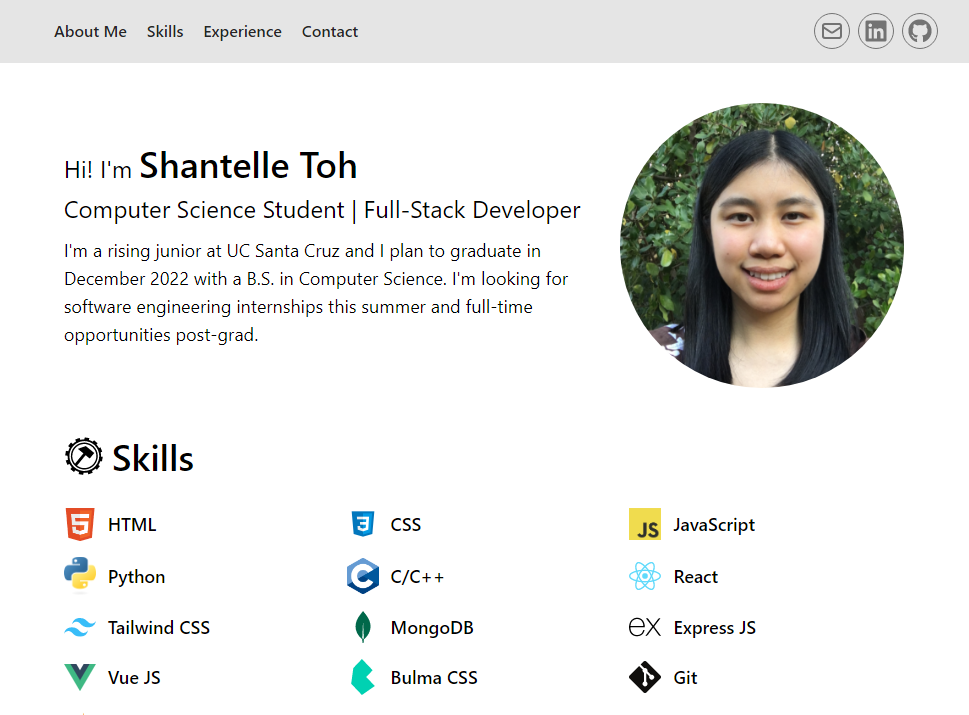
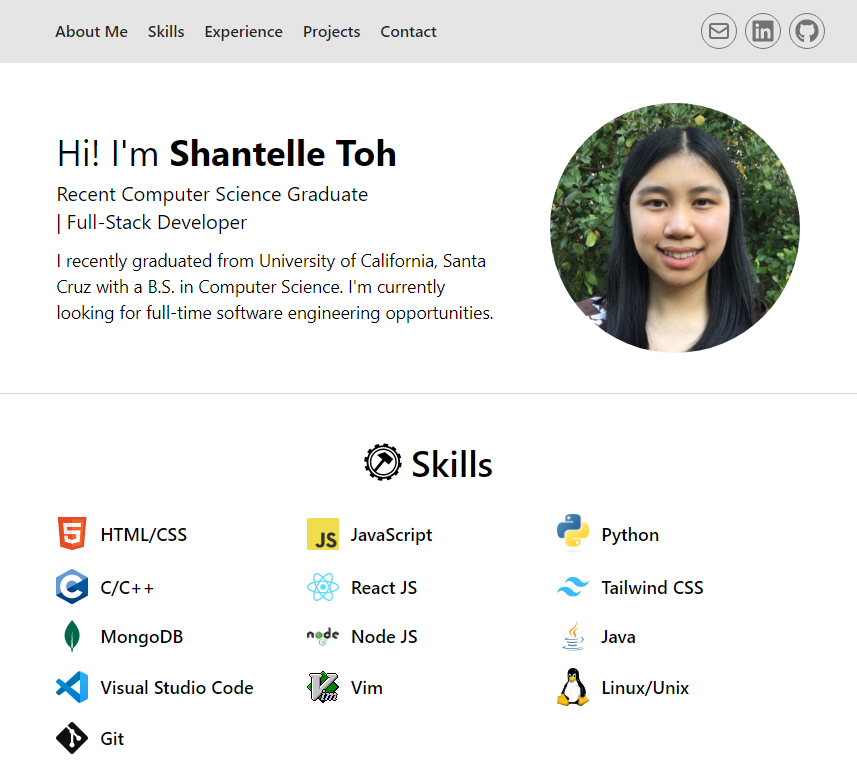
update experience section post-grad

diff --git a/client/src/Components/Experience.jsx b/client/src/Components/Experience.jsx
@@ -1,6 +1,7 @@
 import { MdWorkOutline } from "react-icons/md";
 import baskinLogo from "../assets/experience/baskin-engineering-logo.png";
 import cruzhacks2022Logo from "../assets/experience/cruzhacks-2022-logo.png";
+import cruzhacks2023Logo from "../assets/experience/cruzhacks-2023-logo.jpg";
 import lssLogo from "../assets/experience/ucsc-lss-logo.png";
 
 export default function Experience() {
@@ -17,35 +18,7 @@ export default function Experience() {
           <ol class="relative border-l border-gray-300 border-l-2">
             <li class="mb-8 ml-6">
               <span class="absolute flex items-center -ml-1 justify-center w-10 h-10 -left-4 ring-8 ring-white">
-                <img src={baskinLogo} alt="" />
-              </span>
-              <h3 class="flex items-center ml-2 mb-1 text-lg font-semibold text-black">
-                Computer Networks Course Tutor and Grader | Baskin Engineering
-                at UC Santa Cruz{" "}
-              </h3>
-              <p class="block ml-2 mb-2 leading-none text-gray-500">
-                Sept 2022 - Present
-              </p>
-              <p class="ml-2 mb-4 text-gray-600">
-                <ul
-                  style={{
-                    paddingLeft: "1.5em",
-                    listStyleType: "disc",
-                  }}
-                >
-                  <li>Assist TAs in weekly lab sections with 20+ students</li>
-                  <li>
-                    Hold tutoring sessions covering TCP/IP conceptual layers,
-                    routing and switching protocols, socket programming,
-                    congestion control mechanisms, MAC protocols
-                  </li>
-                  <li>Responsible for grading labs, quizzes, and midterms</li>
-                </ul>
-              </p>
-            </li>
-            <li class="mb-8 ml-6">
-              <span class="absolute flex items-center -ml-1 justify-center w-10 h-10 -left-4 ring-8 ring-white">
-                <img src={cruzhacks2022Logo} alt="" />
+                <img src={cruzhacks2023Logo} alt="" />
               </span>
               <h3 class="flex items-center ml-2 mb-1 text-lg font-semibold text-black">
                 Director of Sponsorship | CruzHacks 2023{" "}
@@ -61,12 +34,54 @@ export default function Experience() {
                   }}
                 >
                   <li>
-                    Oversee all sponsorship for the largest hackathon in Santa
+                    Oversaw all sponsorship for the largest hackathon in Santa
                     Cruz with over 600 attendees
                   </li>
                   <li>
-                    Lead a team of 3 to fundraise for the event by fostering
-                    relationships and partnering with corporate sponsors
+                    Led a team of 3 to secure over $25,000 for the event by
+                    fostering relationships and partnering with corporate and
+                    non-profit sponsors
+                  </li>
+                  <li>
+                    Took on the task of managing all food outreach and logistics
+                    for the 3-day event
+                  </li>
+                </ul>
+              </p>
+            </li>
+            <li class="mb-8 ml-6">
+              <span class="absolute flex items-center -ml-1 justify-center w-10 h-10 -left-4 ring-8 ring-white">
+                <img src={baskinLogo} alt="" />
+              </span>
+              <h3 class="flex items-center ml-2 mb-1 text-lg font-semibold text-black">
+                Computer Networks Course Group Tutor and Grader | Baskin
+                Engineering at UC Santa Cruz{" "}
+              </h3>
+              <p class="block ml-2 mb-2 leading-none text-gray-500">
+                Sep 2022 - Dec 2022
+              </p>
+              <p class="ml-2 mb-4 text-gray-600">
+                <ul
+                  style={{
+                    paddingLeft: "1.5em",
+                    listStyleType: "disc",
+                  }}
+                >
+                  <li>
+                    Assisted TAs in weekly lab sections with over 25 students
+                  </li>
+                  <li>
+                    Held weekly tutoring sessions covering TCP/IP conceptual
+                    layers, routing and switching protocols, socket programming,
+                    congestion control mechanisms, and MAC protocols
+                  </li>
+                  <li>
+                    Graded and provided individual targeted feedback for labs,
+                    quizzes, and midterms
+                  </li>
+                  <li>
+                    Worked with the professor to improve students' learning
+                    experience and help with course logistics
                   </li>
                 </ul>
               </p>
@@ -89,11 +104,12 @@ export default function Experience() {
                   }}
                 >
                   <li>
-                    Spearheaded planning and physical preparations for CruzHacks
+                    Invited keynote speakers, judges, and mentors from diverse
+                    backgrounds to motivate hackers
                   </li>
                   <li>
-                    Coordinated hacker workshops, activities, and keynote
-                    speakers
+                    Spearheaded planning and coordination for hacker workshops,
+                    events and activities
                   </li>
                 </ul>
               </p>
@@ -124,11 +140,13 @@ export default function Experience() {
                     Winter 2022, Summer 2022: Tutored for Beginning Programming
                     in Python
                   </li>
-                  <li>Held 4-6 weekly one-on-one and group sessions</li>
                   <li>
-                    Helped over 200 students debug Python, RISC-V assembly, and
-                    MIPS assembly code and logic design assignments and gain
-                    strong fundamentals in programming and course material
+                    Held 4 to 6 weekly group tutoring sessions and one-on-one
+                    tutoring sessions
+                  </li>
+                  <li>
+                    Tutored over 200 students on assignments covering Python,
+                    RISC-V assembly, MIPS assembly, logic design, and Git
                   </li>
                 </ul>
               </p>
@@ -142,7 +160,7 @@ export default function Experience() {
                 at UC Santa Cruz
               </h3>
               <p class="block ml-2 mb-2 leading-none text-gray-500">
-                Jan 2021 - Present
+                Jan 2021 - Dec 2022
               </p>
               <p class="ml-2 mb-4 text-gray-600">
                 <ul
@@ -159,8 +177,8 @@ export default function Experience() {
                     Winter 2021: Graded for Programming Abstractions: Python
                   </li>
                   <li>
-                    Evaluated 300+ Python programming and logic design labs by
-                    providing individual targeted feedback
+                    Evaluated over 300 Python programming and logic design labs
+                    by providing individual targeted feedback
                   </li>
                   <li>
                     Worked with the professor to improve students' learning

diff --git a/client/src/Components/Skills.jsx b/client/src/Components/Skills.jsx
@@ -10,7 +10,7 @@ import { GiGearHammer } from "react-icons/gi";
 // import { AiOutlineCode } from "react-icons/ai";
 // import { FaLanguage } from "react-icons/fa";
 import html from "../assets/skills/html_icon.png";
-import css from "../assets/skills/css_icon.png";
+// import css from "../assets/skills/css_icon.png";
 import javascript from "../assets/skills/javascript_icon.png";
 import python from "../assets/skills/python_icon.png";
 import c from "../assets/skills/c_language.png";
